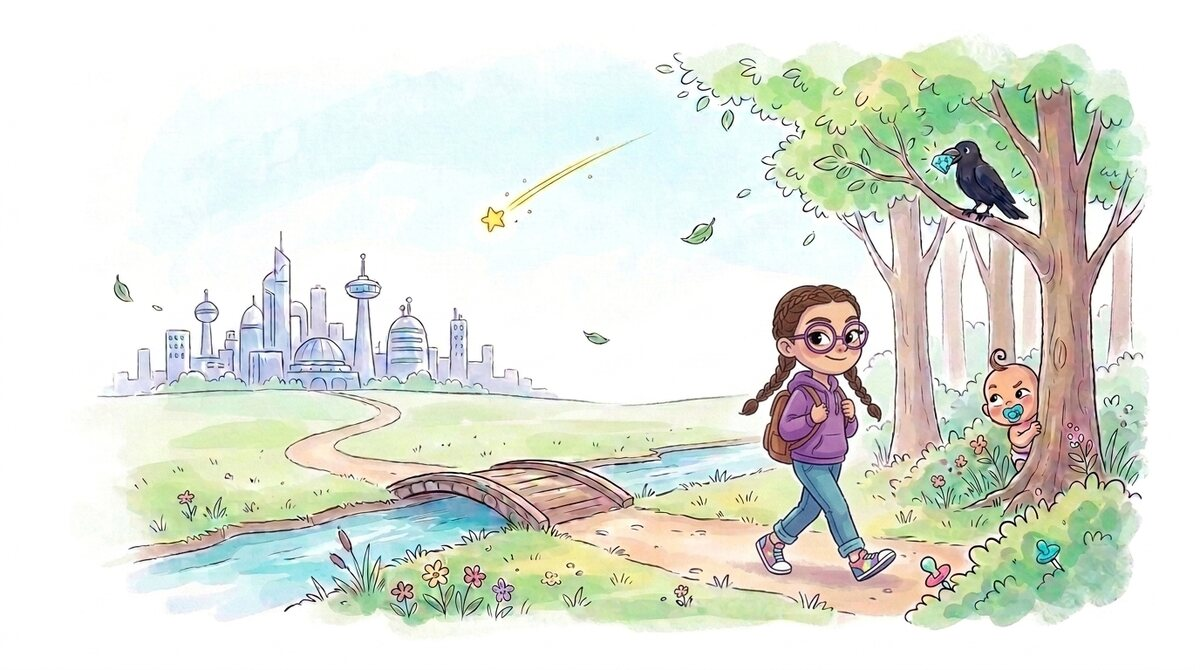
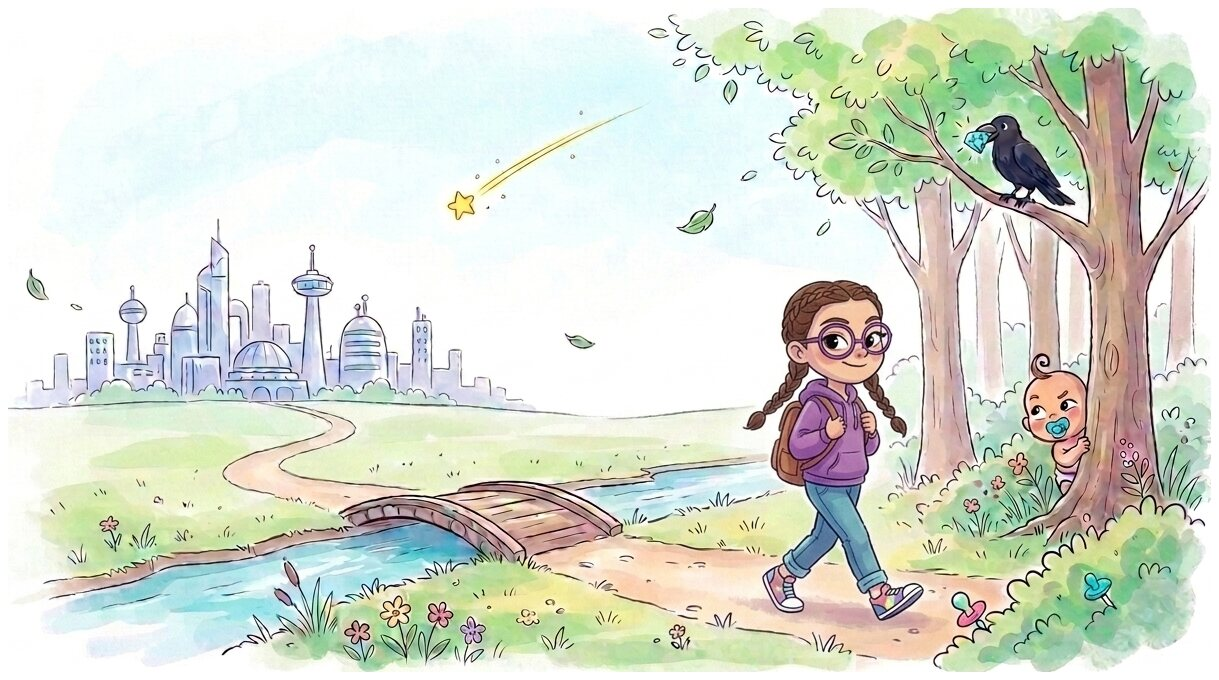
Couverture plus grande et rognée, marges de l'arbre et du contexte (#33)
- illustration de couverture rognée de son blanc et agrandie, la couverture tenant toujours
  dans l'écran, y compris sur les écrans peu hauts ;
- pages de l'arbre et de contexte alignées sur la largeur et les marges des autres pages.

diff --git a/index.html b/index.html
@@ -7,6 +7,11 @@
 
 
 
+
+
+
+
+
 <meta name="robots" content="noindex, nofollow, noarchive">
 <meta content="width=device-width, initial-scale=1" name="viewport">
 <title>Violette et Patate</title>
@@ -125,14 +130,14 @@ tw-story:has(.garde) { padding-top: 1em; padding-bottom: 1em; }
 }
 .garde-corps {
   display: grid;
-  grid-template-columns: minmax(0, 1.4fr) minmax(0, 1fr);
+  grid-template-columns: minmax(0, 1.6fr) minmax(0, 1fr);
   gap: 3em;
   align-items: center;
 }
 .garde-image img {
   display: block;
   width: 100%;
-  max-height: 53vh;
+  max-height: 60vh;
   object-fit: contain;
   height: auto;
   mix-blend-mode: multiply;
@@ -351,13 +356,9 @@ tw-story:has(.garde) { padding-top: 1em; padding-bottom: 1em; }
 
 /* Page de l'arbre : le texte à gauche, l'arbre très vertical à droite */
 .arbre {
-  position: relative;
-  left: 50%;
-  transform: translateX(-50%);
-  width: min(1400px, 96vw);
   display: grid;
-  grid-template-columns: minmax(0, 1fr) minmax(0, 2.6fr);
-  gap: 2.5em;
+  grid-template-columns: minmax(0, 1fr) minmax(0, 2.4fr);
+  gap: 3.5em;
   align-items: start;
 }
 .arbre-texte {
@@ -392,10 +393,6 @@ tw-story:has(.garde) { padding-top: 1em; padding-bottom: 1em; }
 
 /* Page de contexte : le texte à gauche, les fiches des autrices à droite */
 .contexte {
-  position: relative;
-  left: 50%;
-  transform: translateX(-50%);
-  width: min(1180px, 96vw);
   display: grid;
   grid-template-columns: minmax(0, 1.15fr) minmax(0, 1fr);
   gap: 3em;
@@ -442,6 +439,16 @@ tw-link:hover, .enchantment-link:hover { color: var(--violet-fonce); }
   tw-story { font-size: 0.98em; }
   .garde .grand-titre { font-size: 2.9em; }
   .chapitre .titre { font-size: 1.7em; }
+}
+
+/* Écrans peu hauts : on resserre le résumé et les espacements pour que tout tienne */
+@media (max-height: 620px) and (min-width: 801px) {
+  tw-story:has(.garde) { padding-top: 0.6em; padding-bottom: 0.6em; }
+  .garde { min-height: calc(100vh - 1.4em); gap: 0.6em; }
+  .garde .synopsis { font-size: 0.84em; line-height: 1.45; }
+  .garde .separateur { margin: 0.5em 0; }
+  .garde .secondaires { margin-top: 0.6em; }
+  .garde-image img { max-height: 54vh; }
 }
 </style><script role="script" id="twine-user-script" type="text/twine-javascript"></script><tw-passagedata pid="1" name="Bouton couverture" tags="header" position="150,0" size="100,100">(unless: (a: &quot;Page de garde&quot;, &quot;L&#x27;arbre de l&#x27;histoire&quot;, &quot;Comment est née cette histoire&quot;) contains (passage:)&#x27;s name)[&lt;div class=&quot;retour&quot;&gt;[[Couverture-&gt;Page de garde]]&lt;/div&gt;]</tw-passagedata><tw-passagedata pid="2" name="Page de garde" tags="" position="300,0" size="100,100">&lt;div class=&quot;garde&quot;&gt;&lt;div class=&quot;garde-entete&quot;&gt;&lt;span class=&quot;surtitre&quot;&gt;Une histoire dont le lecteur est le héros&lt;/span&gt;&lt;div class=&quot;grand-titre&quot;&gt;Violette et Patate&lt;/div&gt;&lt;span class=&quot;nom-auteur&quot;&gt;Eva et Brune&lt;/span&gt;&lt;/div&gt;&lt;div class=&quot;garde-corps&quot;&gt;&lt;div class=&quot;garde-image&quot;&gt;&lt;img src=&quot;images/couverture.jpg&quot; alt=&quot;Violette part vers la forêt, sous une étoile filante, pendant que le corbeau l&#x27;attend&quot;&gt;&lt;/div&gt;&lt;div class=&quot;garde-texte&quot;&gt;&lt;div class=&quot;synopsis&quot;&gt;Violette a dix ans, deux tresses et des lunettes qui arrêtent le temps. Elle s&#x27;en sert pour faire des bêtises, surtout pour faire brûler les tartes de toute la ville. Ce matin, elle part dans la forêt attraper un corbeau. Mais elle a oublié ses lunettes, le corbeau bouge dans le temps arrêté, et un bébé venu de la Lune lui a volé ses diamants. Qui va gagner : la farceuse ou le bébé ?&lt;/div&gt;&lt;div class=&quot;separateur&quot;&gt;&lt;span class=&quot;lunettes&quot;&gt;&lt;/span&gt;&lt;/div&gt;&lt;div class=&quot;commencer&quot;&gt;[[Commencer l&#x27;histoire-&gt;Prologue]]&lt;/div&gt;&lt;div class=&quot;secondaires&quot;&gt;[[Comment est née cette histoire-&gt;Comment est née cette histoire]] [[L&#x27;arbre de l&#x27;histoire-&gt;L&#x27;arbre de l&#x27;histoire]]&lt;/div&gt;&lt;/div&gt;&lt;/div&gt;&lt;/div&gt;</tw-passagedata><tw-passagedata pid="3" name="Comment est née cette histoire" tags="" position="450,0" size="100,100">&lt;div class=&quot;contexte&quot;&gt;&lt;div class=&quot;contexte-texte&quot;&gt;&lt;span class=&quot;lien-retour&quot;&gt;[[Couverture-&gt;Page de garde]]&lt;/span&gt;
 &lt;h1&gt;Comment est née cette histoire&lt;/h1&gt;Le mardi 27 octobre 2026, pendant les vacances d&#x27;automne, le L.A.B a animé l&#x27;atelier « Le livre dont tu es le héros » à la bibliothèque des Deux Ormes, l&#x27;une des bibliothèques Méjanes d&#x27;Aix-en-Provence. Huit enfants de 8 à 12 ans y ont inventé une histoire qui change selon les choix du lecteur, en l&#x27;écrivant situation par situation sur des fiches où chaque lancer de dé renvoie vers une autre situation. L&#x27;atelier est issu du projet européen Robots Meet Arts : derrière le récit, il s&#x27;agit de découvrir sans écran les notions qui structurent un programme informatique. Chaque lancer de dé est une condition, qui décide de la suite de l&#x27;histoire. Chaque choix ouvre un embranchement, et un chemin qui ramène à une situation déjà écrite forme une boucle.

diff --git a/source/construire_site.py b/source/construire_site.py
@@ -173,14 +173,14 @@ tw-story:has(.garde) { padding-top: 1em; padding-bottom: 1em; }
 }
 .garde-corps {
   display: grid;
-  grid-template-columns: minmax(0, 1.4fr) minmax(0, 1fr);
+  grid-template-columns: minmax(0, 1.6fr) minmax(0, 1fr);
   gap: 3em;
   align-items: center;
 }
 .garde-image img {
   display: block;
   width: 100%;
-  max-height: 53vh;
+  max-height: 60vh;
   object-fit: contain;
   height: auto;
   mix-blend-mode: multiply;
@@ -399,13 +399,9 @@ tw-story:has(.garde) { padding-top: 1em; padding-bottom: 1em; }
 
 /* Page de l'arbre : le texte à gauche, l'arbre très vertical à droite */
 .arbre {
-  position: relative;
-  left: 50%;
-  transform: translateX(-50%);
-  width: min(1400px, 96vw);
   display: grid;
-  grid-template-columns: minmax(0, 1fr) minmax(0, 2.6fr);
-  gap: 2.5em;
+  grid-template-columns: minmax(0, 1fr) minmax(0, 2.4fr);
+  gap: 3.5em;
   align-items: start;
 }
 .arbre-texte {
@@ -440,10 +436,6 @@ tw-story:has(.garde) { padding-top: 1em; padding-bottom: 1em; }
 
 /* Page de contexte : le texte à gauche, les fiches des autrices à droite */
 .contexte {
-  position: relative;
-  left: 50%;
-  transform: translateX(-50%);
-  width: min(1180px, 96vw);
   display: grid;
   grid-template-columns: minmax(0, 1.15fr) minmax(0, 1fr);
   gap: 3em;
@@ -490,6 +482,16 @@ tw-link:hover, .enchantment-link:hover { color: var(--violet-fonce); }
   tw-story { font-size: 0.98em; }
   .garde .grand-titre { font-size: 2.9em; }
   .chapitre .titre { font-size: 1.7em; }
+}
+
+/* Écrans peu hauts : on resserre le résumé et les espacements pour que tout tienne */
+@media (max-height: 620px) and (min-width: 801px) {
+  tw-story:has(.garde) { padding-top: 0.6em; padding-bottom: 0.6em; }
+  .garde { min-height: calc(100vh - 1.4em); gap: 0.6em; }
+  .garde .synopsis { font-size: 0.84em; line-height: 1.45; }
+  .garde .separateur { margin: 0.5em 0; }
+  .garde .secondaires { margin-top: 0.6em; }
+  .garde-image img { max-height: 54vh; }
 }
 """
 
